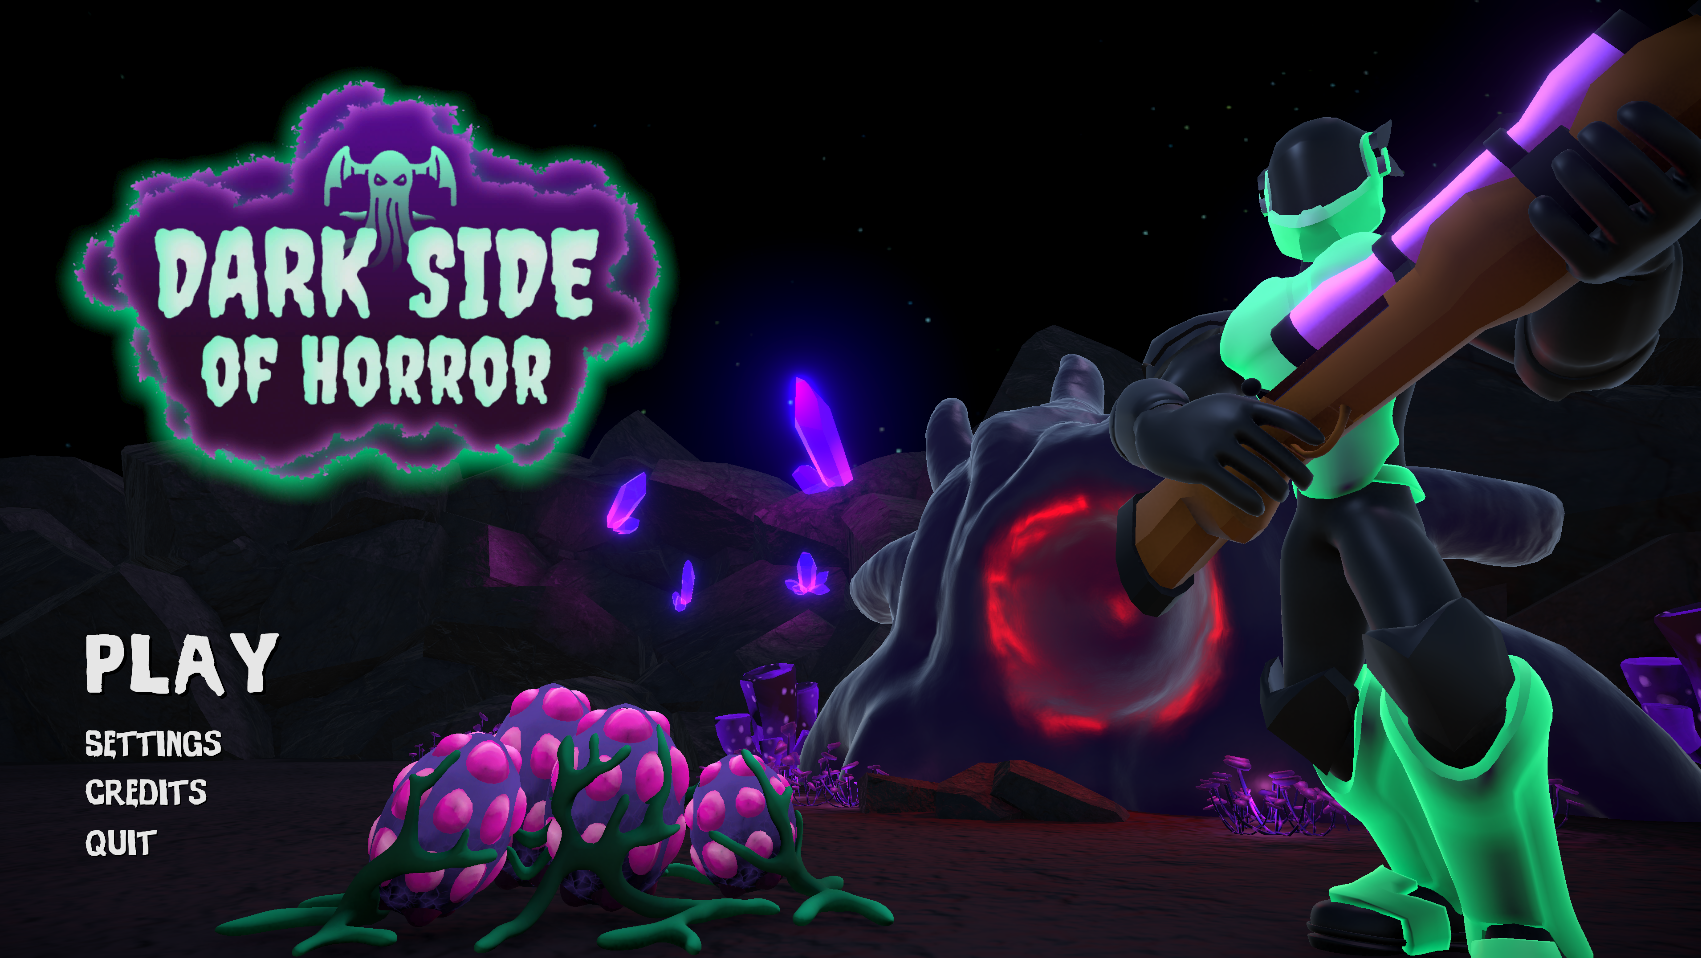
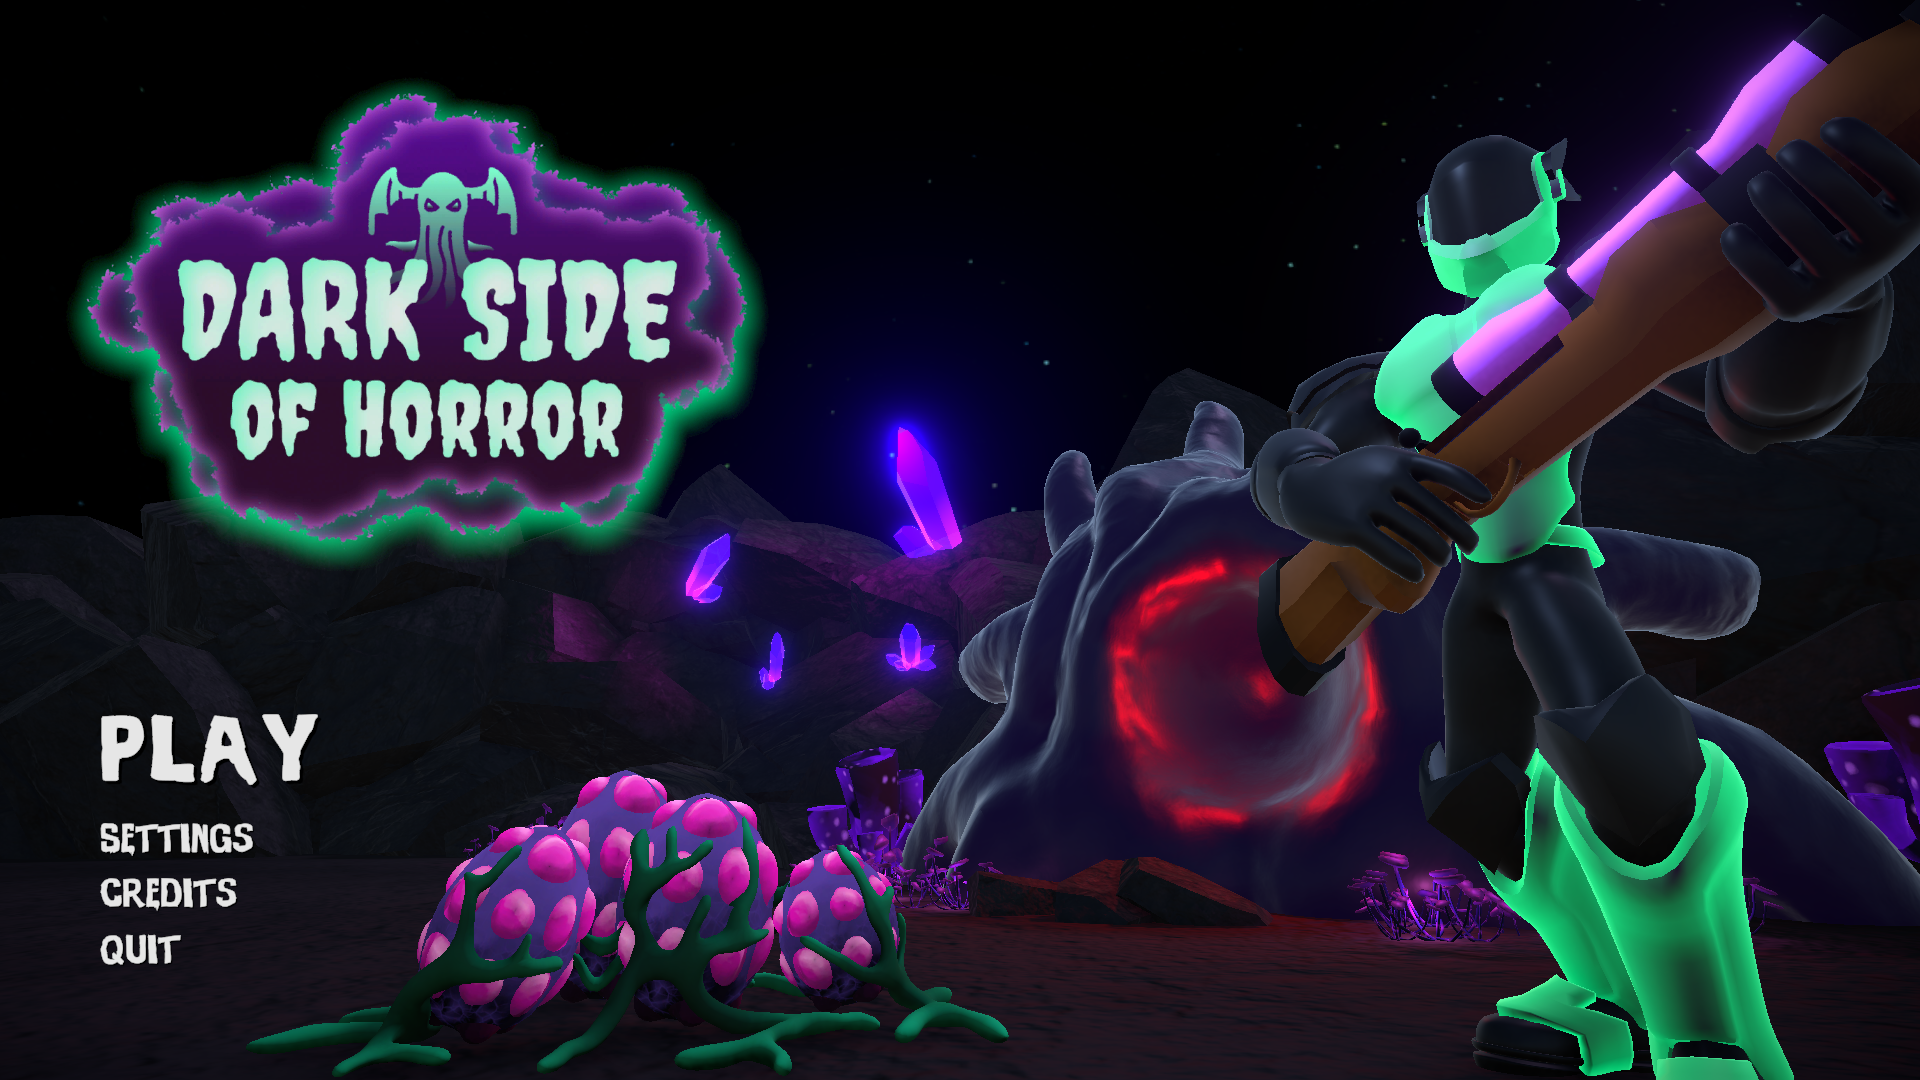
Switch project cards to vertical layout
The horizontal layout's media column was stretching to match the
(taller) content column, leaving the images centered with large
empty bars when using object-fit: contain. Vertical cards put the
image at the top of the card at a fixed 16:9 aspect ratio with
object-fit: cover, eliminating both the cropping and the empty
space, and giving each card a stronger image-led presentation.

Also updates the Dark Side of Horror PNG with the high-res version.

diff --git a/styles.css b/styles.css
@@ -413,7 +413,7 @@ ul { padding: 0; margin: 0; list-style: none; }
 }
 .project {
   display: grid;
-  grid-template-columns: 1.1fr 1.4fr;
+  grid-template-columns: 1fr;
   gap: 0;
   background: linear-gradient(180deg, var(--surface), var(--surface-2));
   border: 1px solid var(--border);
@@ -429,8 +429,8 @@ ul { padding: 0; margin: 0; list-style: none; }
 .project__media {
   position: relative;
   background: #000;
-  min-height: 320px;
-  border-right: 1px solid var(--border);
+  aspect-ratio: 16 / 9;
+  border-bottom: 1px solid var(--border);
   overflow: hidden;
 }
 .project__media img {
@@ -438,12 +438,11 @@ ul { padding: 0; margin: 0; list-style: none; }
   inset: 0;
   width: 100%;
   height: 100%;
-  object-fit: contain;
-  padding: 1.5rem;
+  object-fit: cover;
   transition: transform var(--t);
 }
 .project:hover .project__media img {
-  transform: scale(1.03);
+  transform: scale(1.02);
 }
 .project__badge {
   position: absolute;
@@ -722,12 +721,6 @@ ul { padding: 0; margin: 0; list-style: none; }
   .nav__toggle { display: flex; }
 
   .about-card { grid-template-columns: 1fr; gap: 2rem; }
-  .project { grid-template-columns: 1fr; }
-  .project__media {
-    min-height: 220px;
-    border-right: 0;
-    border-bottom: 1px solid var(--border);
-  }
 
   /* Timeline collapses to a single left-aligned column on mobile */
   .timeline { padding-left: 2rem; }
